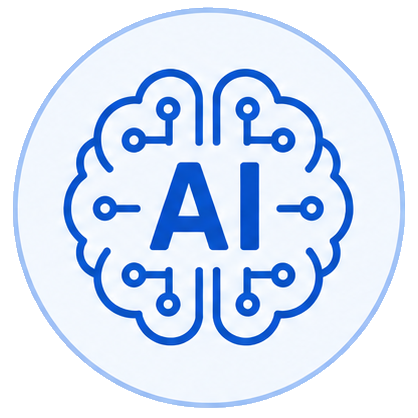
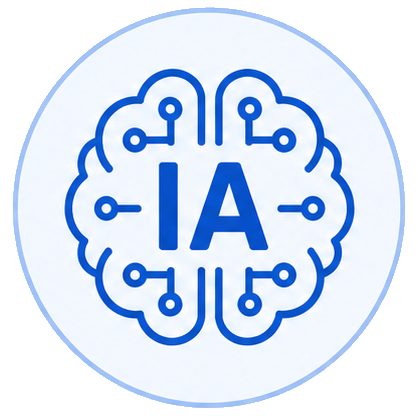
Anadir enlace a presentacion interactiva en README y corregir ortografia

diff --git a/README.md b/README.md
@@ -1,13 +1,15 @@
 # TFM_Maestrado
-Biblioteca de información con documentos relaccionados con mi TFM del Maestrado Universitario en Profesorado de la Universidade de Vigo
+Biblioteca de información con documentos relacionados con mi TFM del Maestrado Universitario en Profesorado de la Universidade de Vigo
 
 ## Presentación
-En este directorio se encuentra la presentación de la defensa del TFM en formato HTML interactivo.
+La presentación interactiva para la defensa del TFM está disponible en:
+- **Online (GitHub Pages)**: [Presentación interactiva TFM](https://a-nit-a.github.io/TFM_Maestrado/)
+- **Local**: [index.html](./index.html) (abrir en el navegador)
 
 ## Base de conocimiento
-Aquí se encuentran lo ficheros que se usaron como referencia para la Generación Automática de Ítems que se emplearon como preguntas a evaluar por parte de los docentes en la encuesta de validación del prompt final.
+Aquí se encuentran los ficheros que se usaron como referencia para la Generación Automática de Ítems que se emplearon como preguntas a evaluar por parte de los docentes en la encuesta de validación del prompt final.
   
-Tambén añadimos la programación looifp de la materia Contornas e sintaxe en Python.
+También añadimos la programación looifp de la materia Contornas e sintaxe en Python.
 
 ## Prompts
 En este directorio se encuentran los prompts más relevantes usados para el TFM.
@@ -16,7 +18,7 @@ En este directorio se encuentran los prompts más relevantes usados para el TFM.
 
 **ChatGPT_WhoYouAre.md**
 
-Chat con ChatGPT para averiguar que ofrece con la cuenta gratuita y a que empresa pertenece.
+Chat con ChatGPT para averiguar qué ofrece con la cuenta gratuita y a qué empresa pertenece.
 La información luego se contrastó con su página web.
 
 **Qwen_EvaluaciónPromptParaTest.md**
@@ -30,10 +32,10 @@ Chat para la creación de la aplicación DICE. Esta aplicación crea un fichero 
 Chat para usar comandos de Excel a la hora de organizar las tablas de datos de la encuesta para la creación de las gráficas.
 
 **ProfesoradoEnseñarAprenderAlumnado.md**
-Chat para generar un grafico en el que se explica como con el uso de la información guardada como vectores la IA puede relacionar conceptos como: profesorado y  alumnado.
+Chat para generar un gráfico en el que se explica cómo con el uso de la información guardada como vectores la IA puede relacionar conceptos como: profesorado y alumnado.
 
 ### Encuesta
-A partir de **Prompt_Python_Base_5_preguntas.md** que es el prompt final para la generación automática de 5 preguntas sobre la materia Python3 se crean otro 5 prompts uno por cada modelo de IA usado para la encuesta de valoración de la calidad de los ítems.
+A partir de **Prompt_Python_Base_5_preguntas.md**, que es el prompt final para la generación automática de 5 preguntas sobre la materia Python3, se crean otros 5 prompts (uno por cada modelo de IA usado para la encuesta de valoración de la calidad de los ítems).
 
 - **Prompt_Python_ChatGP_5_preguntas.md** ChatGPT 5.5
 - **Prompt_Python_Claude_5_preguntas.md** Claude 4.6 Opus